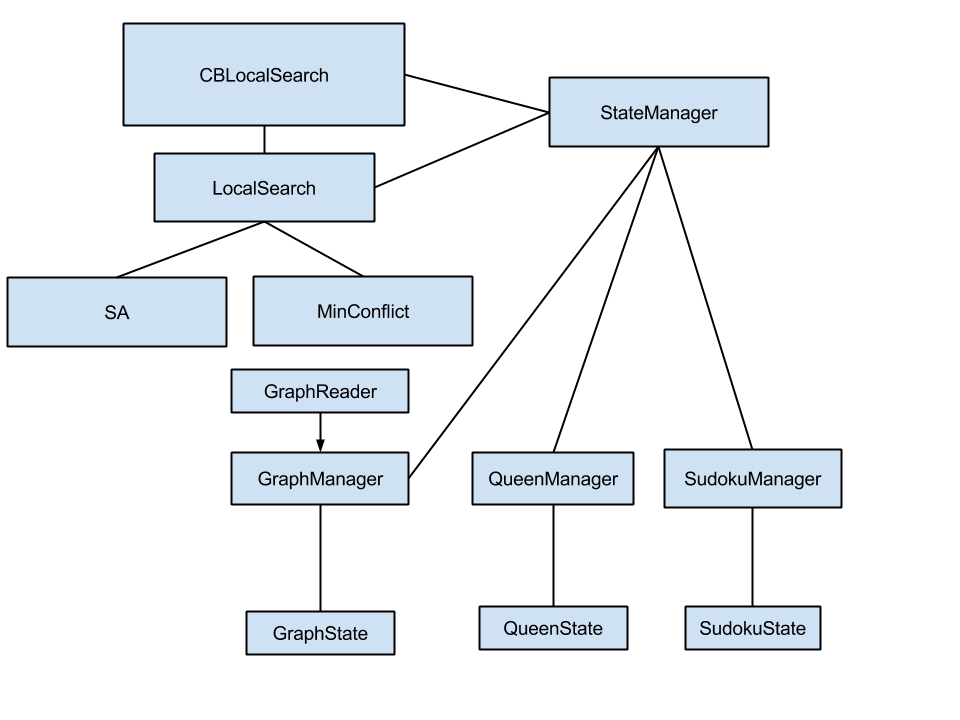
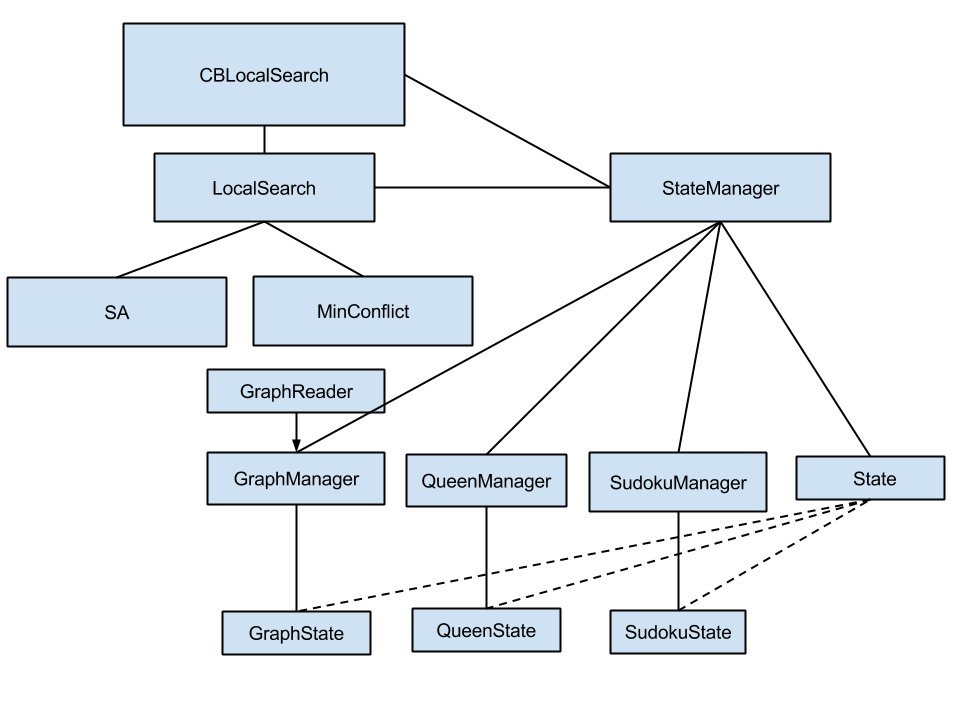
prob final report 2

diff --git a/report/aiprog2Report.tex b/report/aiprog2Report.tex
@@ -69,11 +69,16 @@ Please refer to the delivered code.
 We have included a textfile for each problem with some strings of inputs to easily test the program for various configurations. We are somewhat uncertain what you wanted in the "Demonstration" sections. So we have described how we solved the problems internally and if you use the provided inputs it should be quite easy to verify that our code solves the different puzzles on all difficulties with Minimum Conflict, as well as the easy case for SA (and a few runs where the medium case also is solved by SA).
 
 \section{Diagram}
-\begin{figure}[H] \includegraphics[width=20cm]{2_Diagram}
+\begin{figure}[H] \includegraphics[width=15cm]{2_Diagram}
 
 \caption{Diagram}
 \label{diagram}
 \end{figure}
+The figure shows our implementation, the first class CBLocalSearch takes care of the input from the user - number of runs, type of puzzle, type of algorithm and such. It then intiates a
+call to either GeneralSA or GeneralMinConflict which inherits from LocalSearch. Both these classes take in the manager of each puzzle, and the manager takes care of creating the initial states (nodes in SA and finding the next neighbor in min conflict), this is done by calling the createInitState() method in each manager, it also sets the initial state as its currentState.
+The CBLocal search initializes a new search by calling .solve() on either the minConflict or the SA class. From here there's two routes depending on which algorithm we have decided to use, let us take look into the SA algorithm first. The generalSA class calls the createChildren() method in the manager which creates 20 children and returns them, then a call to the manager is invoked with the find bestChild() method, which returns the state with the highest \textbf{F}-value. \\
+The minConflict on the other hand only calls the findBestNeighbor() method which suppose to find a random location and minimise the conflict given the constraints. It then runs updateConflict() in the findBestNeighbor() method, this updateConflict method updates the number of conflict and the conflict array so the next iteration have a correct indication where it can go to work.\\
+The code we've written tries to make it as general as possible, the only thing needed to add a new puzzle is to add a manager and a state for the puzzle, the state is there to hold a \textbf{F}-value and stuff that might be used for printing out the final goal state (if found). The manager class should have a constructor which calls the createInitState() which create the initial state, a createChildren which returns an arrayList of states for the given puzzle, a calculateF(State) which calculates the temperature for the given State. For the manager to be able to do the minConflict algorithm it need a findBestNeighbor() which minimizes conflict and calls the updateConflict() method
 \section{Third Puzzle}
 Our third puzzle is Sudoku, we have however modified the rules a bit because it makes it easier to implement and we feel that this modification fits the scheme of a scaling constraint satisfaction problem better.\\
 The difference between this and the normal Sudoku is the fact that the normal sudoku is usually a board of 3x3 numbered grids (with numbers ranging from and including 1 to and including 9), and the board is pre-filled with some numbers already, these numbers are not allowed to be changed whatsoever.\\
@@ -321,48 +326,53 @@ One of the runs and its solution printed out, the N indicates which node we are 
 \begin{verbatim}
 GraphManager: graph-color-1.txt
 
-num of conflicts in total: 0
+Number of conflicts in total: 0
+Conflicts: N0:0  N1:0  N2:0  N3:0  N4:0  N5:0  N6:0  N7:0  N8:0  N9:0  
+N10:0  N11:0  N12:0  N13:0  N14:0  N15:0  N16:0  N17:0  N18:0  N19:0  N20:0
+N21:0  N22:0  N23:0  N24:0  N25:0  N26:0  N27:0  N28:0  N29:0  N30:0
+N31:0  N32:0  N33:0  N34:0  N35:0  N36:0  N37:0  N38:0  N39:0  
 N = Node C = Color
-N:0 C:2| N:1 C:1 
-N:1 C:1| N:0 C:2 N:2 C:0 N:3 C:3 N:4 C:2 
-N:2 C:0| N:1 C:1 N:3 C:3 N:4 C:2 
-N:3 C:3| N:1 C:1 N:2 C:0 N:4 C:2 
-N:4 C:2| N:1 C:1 N:2 C:0 N:3 C:3 N:5 C:3 
-N:5 C:3| N:4 C:2 N:6 C:0 
-N:6 C:0| N:5 C:3 N:7 C:2 N:8 C:3 
-N:7 C:2| N:6 C:0 N:8 C:3 N:9 C:1 N:10 C:0 
-N:8 C:3| N:6 C:0 N:7 C:2 N:9 C:1 N:10 C:0 
-N:9 C:1| N:7 C:2 N:8 C:3 N:10 C:0 N:11 C:2 
-N:10 C:0| N:7 C:2 N:8 C:3 N:9 C:1 N:11 C:2 N:12 C:3 
-N:11 C:2| N:9 C:1 N:10 C:0 N:12 C:3 
-N:12 C:3| N:10 C:0 N:11 C:2 N:13 C:2 
-N:13 C:2| N:12 C:3 N:14 C:3 
-N:14 C:3| N:13 C:2 N:15 C:0 N:16 C:1 
-N:15 C:0| N:14 C:3 N:16 C:1 N:18 C:3 
-N:16 C:1| N:14 C:3 N:15 C:0 N:17 C:2 N:18 C:3 N:19 C:0 
-N:17 C:2| N:16 C:1 N:18 C:3 N:19 C:0 
-N:18 C:3| N:15 C:0 N:16 C:1 N:17 C:2 N:19 C:0 N:20 C:2 
-N:19 C:0| N:16 C:1 N:17 C:2 N:18 C:3 N:20 C:2 N:22 C:1 
-N:20 C:2| N:18 C:3 N:19 C:0 N:21 C:0 N:22 C:1 
-N:21 C:0| N:20 C:2 N:22 C:1 
-N:22 C:1| N:19 C:0 N:20 C:2 N:21 C:0 N:23 C:2 
-N:23 C:2| N:22 C:1 N:24 C:3 N:26 C:0 
-N:24 C:3| N:23 C:2 N:25 C:1 N:26 C:0 
-N:25 C:1| N:24 C:3 N:26 C:0 N:27 C:3 
-N:26 C:0| N:23 C:2 N:24 C:3 N:25 C:1 N:27 C:3 
-N:27 C:3| N:25 C:1 N:26 C:0 N:28 C:0 N:29 C:1 N:30 C:2 
-N:28 C:0| N:27 C:3 N:29 C:1 N:30 C:2 N:31 C:3 
-N:29 C:1| N:27 C:3 N:28 C:0 N:30 C:2 N:31 C:3 
-N:30 C:2| N:27 C:3 N:28 C:0 N:29 C:1 N:31 C:3 
-N:31 C:3| N:28 C:0 N:29 C:1 N:30 C:2 N:32 C:2 
-N:32 C:2| N:31 C:3 N:33 C:0 N:34 C:1 
-N:33 C:0| N:32 C:2 N:34 C:1 N:35 C:2 
-N:34 C:1| N:32 C:2 N:33 C:0 N:35 C:2 
-N:35 C:2| N:33 C:0 N:34 C:1 N:36 C:1 
-N:36 C:1| N:35 C:2 N:37 C:3 
-N:37 C:3| N:36 C:1 N:38 C:2 N:39 C:1 
-N:38 C:2| N:37 C:3 N:39 C:1 
-N:39 C:1| N:37 C:3 N:38 C:2 
+N:0 C:2| N:1 C:0  
+N:1 C:0| N:0 C:2  N:2 C:3  N:3 C:2  N:4 C:1  
+N:2 C:3| N:1 C:0  N:3 C:2  N:4 C:1  
+N:3 C:2| N:1 C:0  N:2 C:3  N:4 C:1  
+N:4 C:1| N:1 C:0  N:2 C:3  N:3 C:2  N:5 C:0  
+N:5 C:0| N:4 C:1  N:6 C:3  
+N:6 C:3| N:5 C:0  N:7 C:0  N:8 C:1  
+N:7 C:0| N:6 C:3  N:8 C:1  N:9 C:2  N:10 C:3  
+N:8 C:1| N:6 C:3  N:7 C:0  N:9 C:2  N:10 C:3  
+N:9 C:2| N:7 C:0  N:8 C:1  N:10 C:3  N:11 C:1  
+N:10 C:3| N:7 C:0  N:8 C:1  N:9 C:2  N:11 C:1  N:12 C:0  
+N:11 C:1| N:9 C:2  N:10 C:3  N:12 C:0  
+N:12 C:0| N:10 C:3  N:11 C:1  N:13 C:2  
+N:13 C:2| N:12 C:0  N:14 C:3  
+N:14 C:3| N:13 C:2  N:15 C:1  N:16 C:0  
+N:15 C:1| N:14 C:3  N:16 C:0  N:18 C:3  
+N:16 C:0| N:14 C:3  N:15 C:1  N:17 C:2  N:18 C:3  N:19 C:1  
+N:17 C:2| N:16 C:0  N:18 C:3  N:19 C:1  
+N:18 C:3| N:15 C:1  N:16 C:0  N:17 C:2  N:19 C:1  N:20 C:2  
+N:19 C:1| N:16 C:0  N:17 C:2  N:18 C:3  N:20 C:2  N:22 C:3  
+N:20 C:2| N:18 C:3  N:19 C:1  N:21 C:1  N:22 C:3  
+N:21 C:1| N:20 C:2  N:22 C:3  
+N:22 C:3| N:19 C:1  N:20 C:2  N:21 C:1  N:23 C:0  
+N:23 C:0| N:22 C:3  N:24 C:2  N:26 C:1  
+N:24 C:2| N:23 C:0  N:25 C:0  N:26 C:1  
+N:25 C:0| N:24 C:2  N:26 C:1  N:27 C:3  
+N:26 C:1| N:23 C:0  N:24 C:2  N:25 C:0  N:27 C:3  
+N:27 C:3| N:25 C:0  N:26 C:1  N:28 C:1  N:29 C:0  N:30 C:2  
+N:28 C:1| N:27 C:3  N:29 C:0  N:30 C:2  N:31 C:3  
+N:29 C:0| N:27 C:3  N:28 C:1  N:30 C:2  N:31 C:3  
+N:30 C:2| N:27 C:3  N:28 C:1  N:29 C:0  N:31 C:3  
+N:31 C:3| N:28 C:1  N:29 C:0  N:30 C:2  N:32 C:1  
+N:32 C:1| N:31 C:3  N:33 C:3  N:34 C:0  
+N:33 C:3| N:32 C:1  N:34 C:0  N:35 C:2  
+N:34 C:0| N:32 C:1  N:33 C:3  N:35 C:2  
+N:35 C:2| N:33 C:3  N:34 C:0  N:36 C:0  
+N:36 C:0| N:35 C:2  N:37 C:1  
+N:37 C:1| N:36 C:0  N:38 C:2  N:39 C:3  
+N:38 C:2| N:37 C:1  N:39 C:3  
+N:39 C:3| N:37 C:1  N:38 C:2  
+
 
 \end{verbatim}
 \noindent

diff --git a/GPS/src/GPS/GraphState.java b/GPS/src/GPS/GraphState.java
@@ -45,7 +45,13 @@ public class GraphState extends State{
 		if(SA)
 			buf.append("F: "+getF());
 		buf.append("\nNumber of conflicts in total: " +getCrashes()+"\n");
-		buf.append("N = Node C = Color\n");
+		buf.append("Conflicts: ");
+		for (int i = 0; i < nodes.length; i++) {
+			buf.append("N"+i +":"+conflicts[i] + "  ");
+			
+		}
+
+		buf.append("\nN = Node C = Color\n");
 		for (int i = 0; i < nodes.length; i++) {
 			buf.append("N:" +i + " C:" +nodes[i] + "| ");
 			for (int j = 0; j < neighbourMatrix[0].length; j++) {
